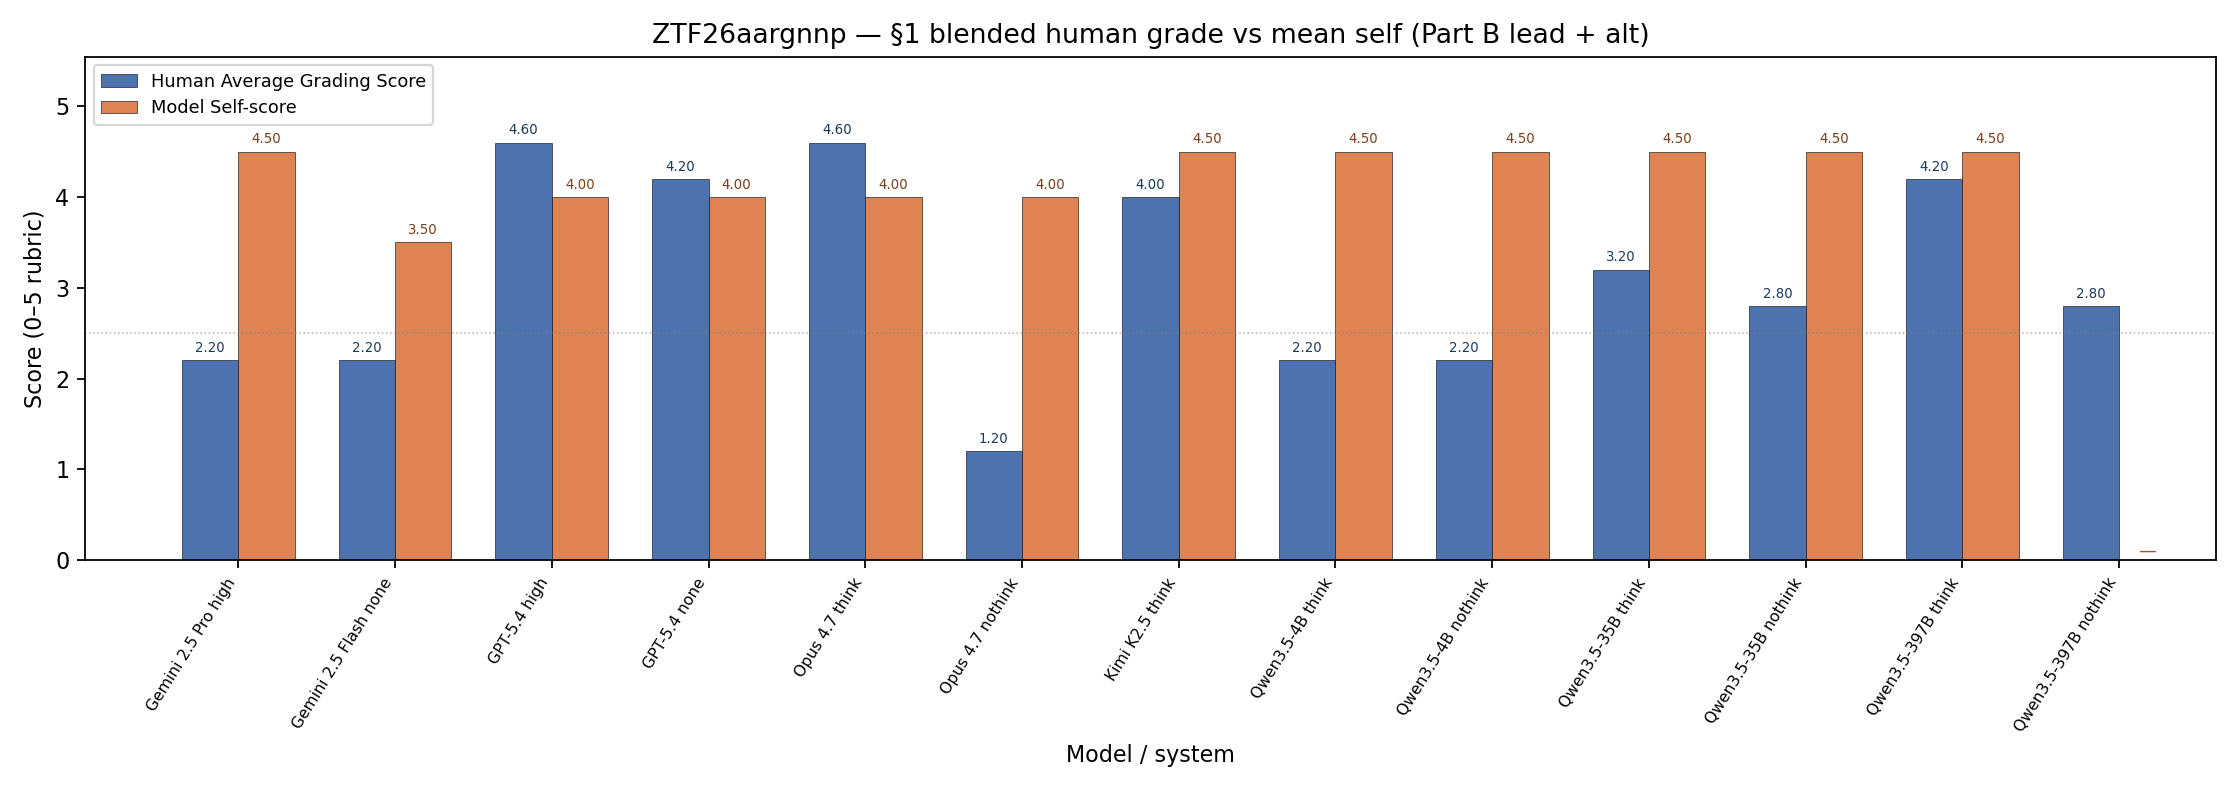
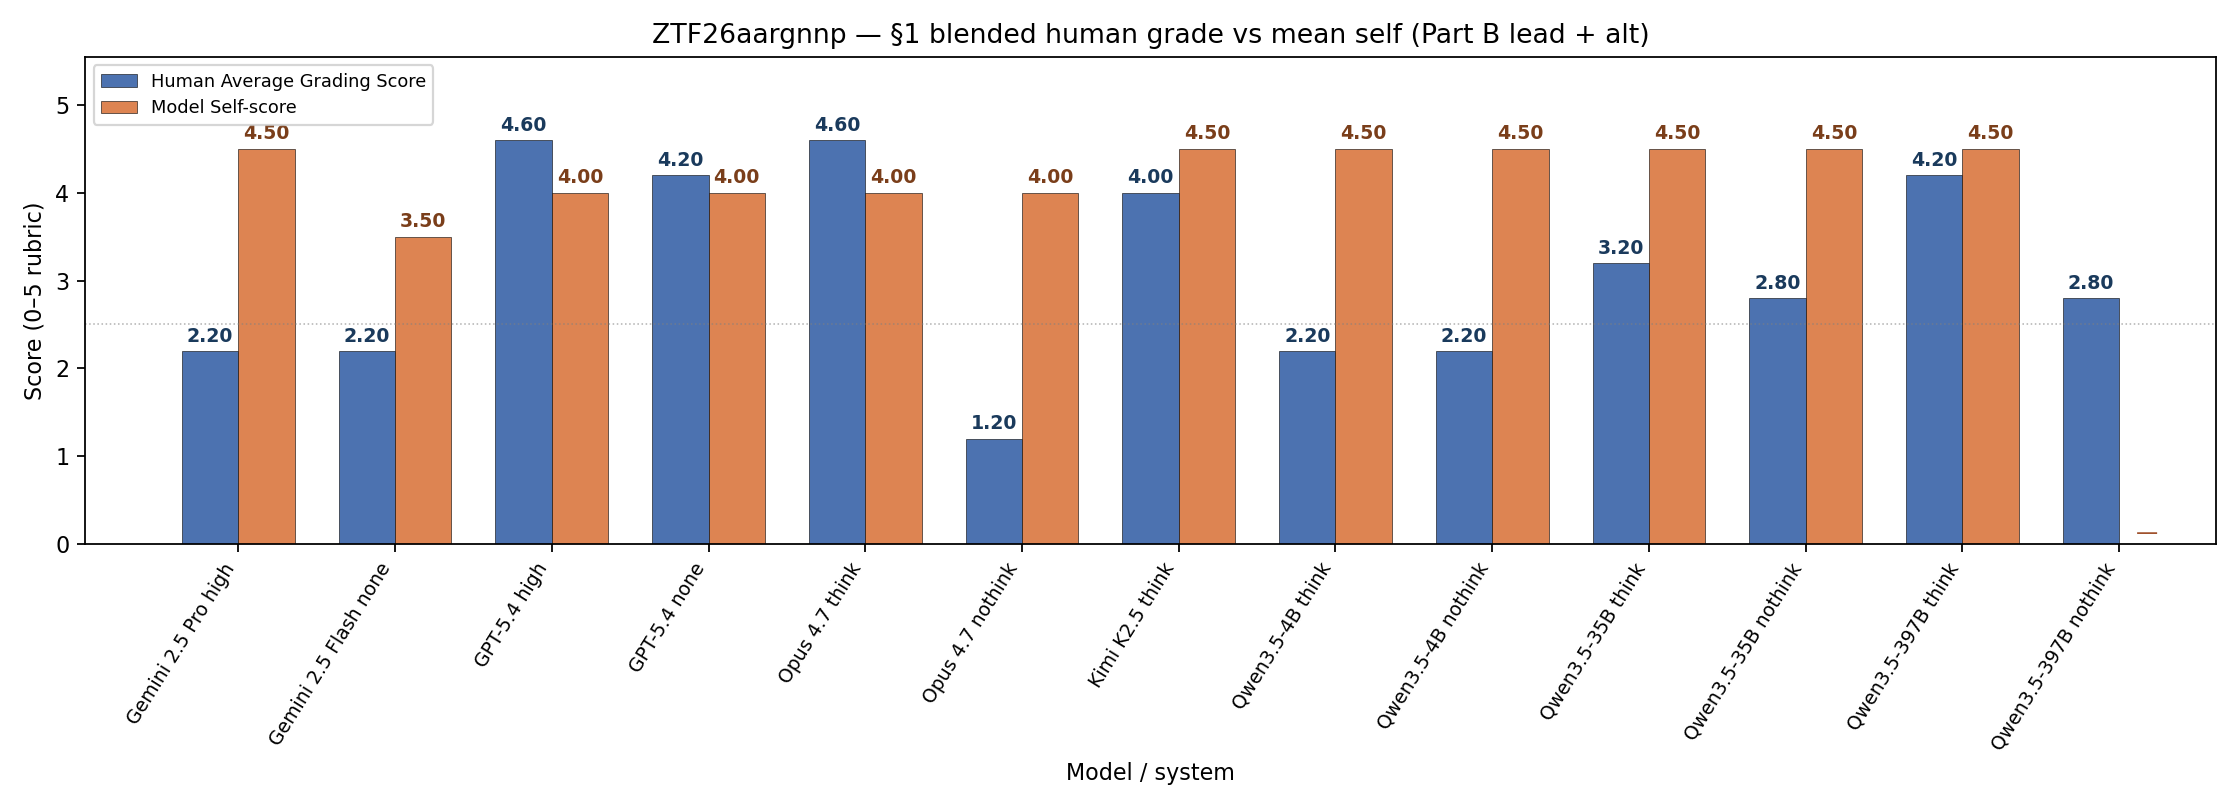
slight updates on past reports

diff --git a/viz/_make_charts_llm_grading_docx_highlights.py b/viz/_make_charts_llm_grading_docx_highlights.py
@@ -1,5 +1,11 @@
 """Figures for results_comparison/report/20260430_report_llm_grading_docx_highlights.md.
 
+Looks for ``LLM Answer Grading *.docx`` in the **repo root** or **temporary_files/**.
+
+Outputs include ``07_stacked_correct_vs_incorrect_per_alert_ztf26_only.png`` (ZTF26 columns only).
+
+Run::
+
     python -m viz._make_charts_llm_grading_docx_highlights
 """
 
@@ -16,10 +22,19 @@ ROOT = Path(__file__).resolve().parent.parent
 OUT_DIR = ROOT / "results_comparison" / "report" / "charts" / "llm_grading_docx_highlights_apr30"
 OUT_DIR.mkdir(parents=True, exist_ok=True)
 
-DOCS = [
-    ("ZTF19abfqvbg", ROOT / "LLM Answer Grading ZTF19abfqvbg.docx"),
-    ("ZTF26aargnnp", ROOT / "LLM Answer Grading ZTF26aargnnp.docx"),
-]
+# Basenames only — resolved under repo root and under ``temporary_files/`` (same layout as grading report).
+_DOC_ENTRIES: tuple[tuple[str, str], ...] = (
+    ("ZTF19abfqvbg", "LLM Answer Grading ZTF19abfqvbg.docx"),
+    ("ZTF26aargnnp", "LLM Answer Grading ZTF26aargnnp.docx"),
+)
+
+
+def _resolve_grading_docx(filename: str) -> Path | None:
+    for d in (ROOT, ROOT / "temporary_files"):
+        p = d / filename
+        if p.is_file():
+            return p
+    return None
 
 # Stacking order: bottom → top
 STACK_KEYS = ["green", "yellow", "red", "unhighlighted"]
@@ -262,9 +277,16 @@ def fig06_grouped_counts_correct_vs_incorrect_pooled(results: list[dict]) -> Non
     plt.close(fig)
 
 
-def fig07_stacked_correct_vs_incorrect_per_alert(results: list[dict]) -> None:
-    """Two alerts × (correct / incorrect) → up to 4 columns if both splits exist."""
-    fig, ax = plt.subplots(figsize=(8.0, 4.2))
+def _fig07_stacked_correct_vs_incorrect_per_alert_core(
+    results: list[dict],
+    out_filename: str,
+    title: str,
+    figsize: tuple[float, float],
+    *,
+    legend_outside_right: bool = False,
+) -> None:
+    """Build stacked bars: one docx → up to 2 columns (correct / incorrect)."""
+    fig, ax = plt.subplots(figsize=figsize)
     cols: list[str] = []
     series: list[dict[str, int]] = []
     for r in results:
@@ -293,18 +315,59 @@ def fig07_stacked_correct_vs_incorrect_per_alert(results: list[dict]) -> None:
         bottom += np.array(heights)
     ax.set_xticks(x, cols, fontsize=8)
     ax.set_ylabel("Share of characters (%)")
-    ax.set_title("Per-alert — highlight mix for correct vs incorrect predictions")
+    ax.set_title(title)
     ax.set_ylim(0, 100)
-    ax.legend(loc="upper right", fontsize=8, ncol=2)
-    fig.savefig(OUT_DIR / "07_stacked_correct_vs_incorrect_per_alert.png")
+    if legend_outside_right:
+        ax.legend(
+            loc="upper left",
+            bbox_to_anchor=(1.02, 1.0),
+            borderaxespad=0.0,
+            fontsize=8,
+            ncol=1,
+            framealpha=0.95,
+        )
+        fig.subplots_adjust(right=0.68)
+    else:
+        ax.legend(loc="upper right", fontsize=8, ncol=2)
+    fig.savefig(OUT_DIR / out_filename)
     plt.close(fig)
+
+
+def fig07_stacked_correct_vs_incorrect_per_alert(results: list[dict]) -> None:
+    """Two alerts × (correct / incorrect) → up to 4 columns if both splits exist."""
+    _fig07_stacked_correct_vs_incorrect_per_alert_core(
+        results,
+        "07_stacked_correct_vs_incorrect_per_alert.png",
+        "Per-alert — highlight mix for correct vs incorrect predictions",
+        figsize=(8.0, 4.2),
+    )
+
+
+def fig07b_stacked_correct_vs_incorrect_ztf26_only(results: list[dict]) -> None:
+    """ZTF26aargnnp docx only: correct vs incorrect (two columns)."""
+    z26 = [r for r in results if "ZTF26aargnnp" in r["path"]]
+    if not z26:
+        print(
+            "[WARN] Skipped 07_stacked_correct_vs_incorrect_per_alert_ztf26_only.png — "
+            "no ZTF26aargnnp docx was loaded (place file in repo root or temporary_files/).",
+            flush=True,
+        )
+        return
+    _fig07_stacked_correct_vs_incorrect_per_alert_core(
+        z26,
+        "07_stacked_correct_vs_incorrect_per_alert_ztf26_only.png",
+        "ZTF26aargnnp — highlight mix for correct vs incorrect predictions",
+        figsize=(5.2, 4.2),
+        legend_outside_right=True,
+    )
 
 
 def main() -> None:
     results: list[dict] = []
-    for _slug, p in DOCS:
-        if not p.is_file():
-            print("skip missing", p)
+    for _slug, fn in _DOC_ENTRIES:
+        p = _resolve_grading_docx(fn)
+        if p is None:
+            print("skip missing", fn, "(tried repo root and temporary_files/)")
             continue
         results.append(analyze_docx(p))
     if not results:
@@ -322,6 +385,7 @@ def main() -> None:
     fig05_stacked_correct_vs_incorrect_pooled(results)
     fig06_grouped_counts_correct_vs_incorrect_pooled(results)
     fig07_stacked_correct_vs_incorrect_per_alert(results)
+    fig07b_stacked_correct_vs_incorrect_ztf26_only(results)
     print("Wrote PNGs to", OUT_DIR)
 
 

diff --git a/viz/build_20260503_zooniverse_grading_report.py b/viz/build_20260503_zooniverse_grading_report.py
@@ -591,7 +591,7 @@ def fig_z26_human_mean_vs_self_grouped(
     )
     for i in range(13):
         if np.isnan(hvals[i]):
-            ax.annotate("—", (x[i] - w / 2, 0.05), ha="center", fontsize=8, color="#4C72B0")
+            ax.annotate("—", (x[i] - w / 2, 0.05), ha="center", fontsize=10, color="#4C72B0")
         else:
             ax.text(
                 x[i] - w / 2,
@@ -599,11 +599,12 @@ def fig_z26_human_mean_vs_self_grouped(
                 f"{hvals[i]:.2f}",
                 ha="center",
                 va="bottom",
-                fontsize=6,
+                fontsize=8.5,
+                fontweight="semibold",
                 color="#1a3a5c",
             )
         if np.isnan(svals[i]):
-            ax.annotate("—", (x[i] + w / 2, 0.05), ha="center", fontsize=8, color="#a0522d")
+            ax.annotate("—", (x[i] + w / 2, 0.05), ha="center", fontsize=10, color="#a0522d")
         else:
             ax.text(
                 x[i] + w / 2,
@@ -611,13 +612,14 @@ def fig_z26_human_mean_vs_self_grouped(
                 f"{svals[i]:.2f}",
                 ha="center",
                 va="bottom",
-                fontsize=6,
+                fontsize=8.5,
+                fontweight="semibold",
                 color="#7a3e1a",
             )
 
     xtick_lbls = list(MODEL_DISPLAY)
     ax.set_xticks(x)
-    ax.set_xticklabels(xtick_lbls, rotation=58, ha="right", fontsize=7)
+    ax.set_xticklabels(xtick_lbls, rotation=58, ha="right", fontsize=8.5)
     ax.set_xlabel("Model / system")
     ax.set_ylabel("Score (0–5 rubric)")
     ax.set_title(
@@ -627,7 +629,7 @@ def fig_z26_human_mean_vs_self_grouped(
     ax.legend(loc="upper left", fontsize=8, ncol=1)
     ax.axhline(2.5, color="gray", ls=":", lw=0.7, alpha=0.6)
     fig.tight_layout()
-    fig.subplots_adjust(bottom=0.3)
+    fig.subplots_adjust(bottom=0.32)
     fig.savefig(path, dpi=160)
     plt.close(fig)
 
@@ -797,7 +799,8 @@ def fig_z26_self_minus_human_bias(
     ax.set_yticks(y)
     ax.set_yticklabels(labels, fontsize=8)
     ax.set_xlabel(
-        "Mean self-score (lead + alt) − §1 human mean  (positive ⇒ model rates itself higher than humans)"
+        "Mean self-score − human mean "
+        "(positive ⇒ model self-rating higher than human mean)"
     )
     ax.set_title("ZTF26aargnnp — self-rating bias (lead + alt) vs blended human grade (sorted)")
     m = max(0.55, float(np.nanmax(np.abs(vals))) * 1.12)
